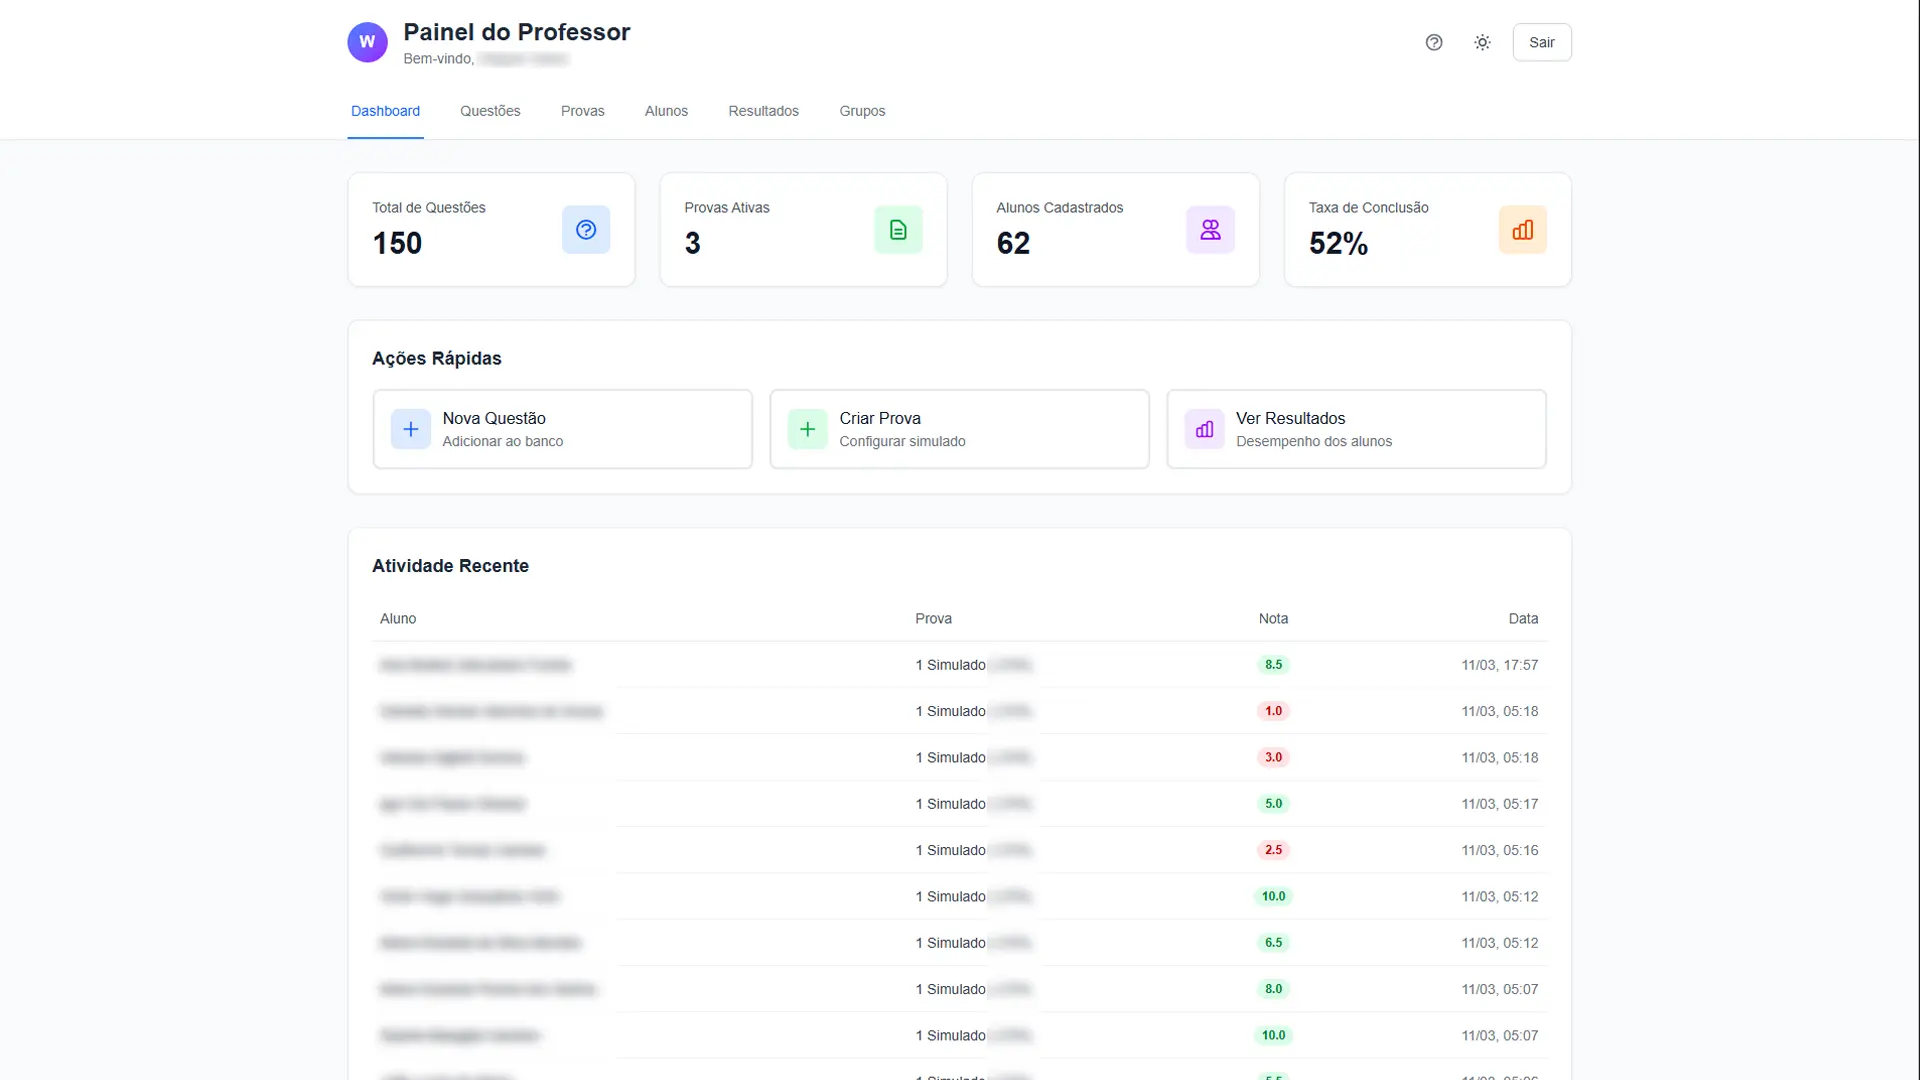
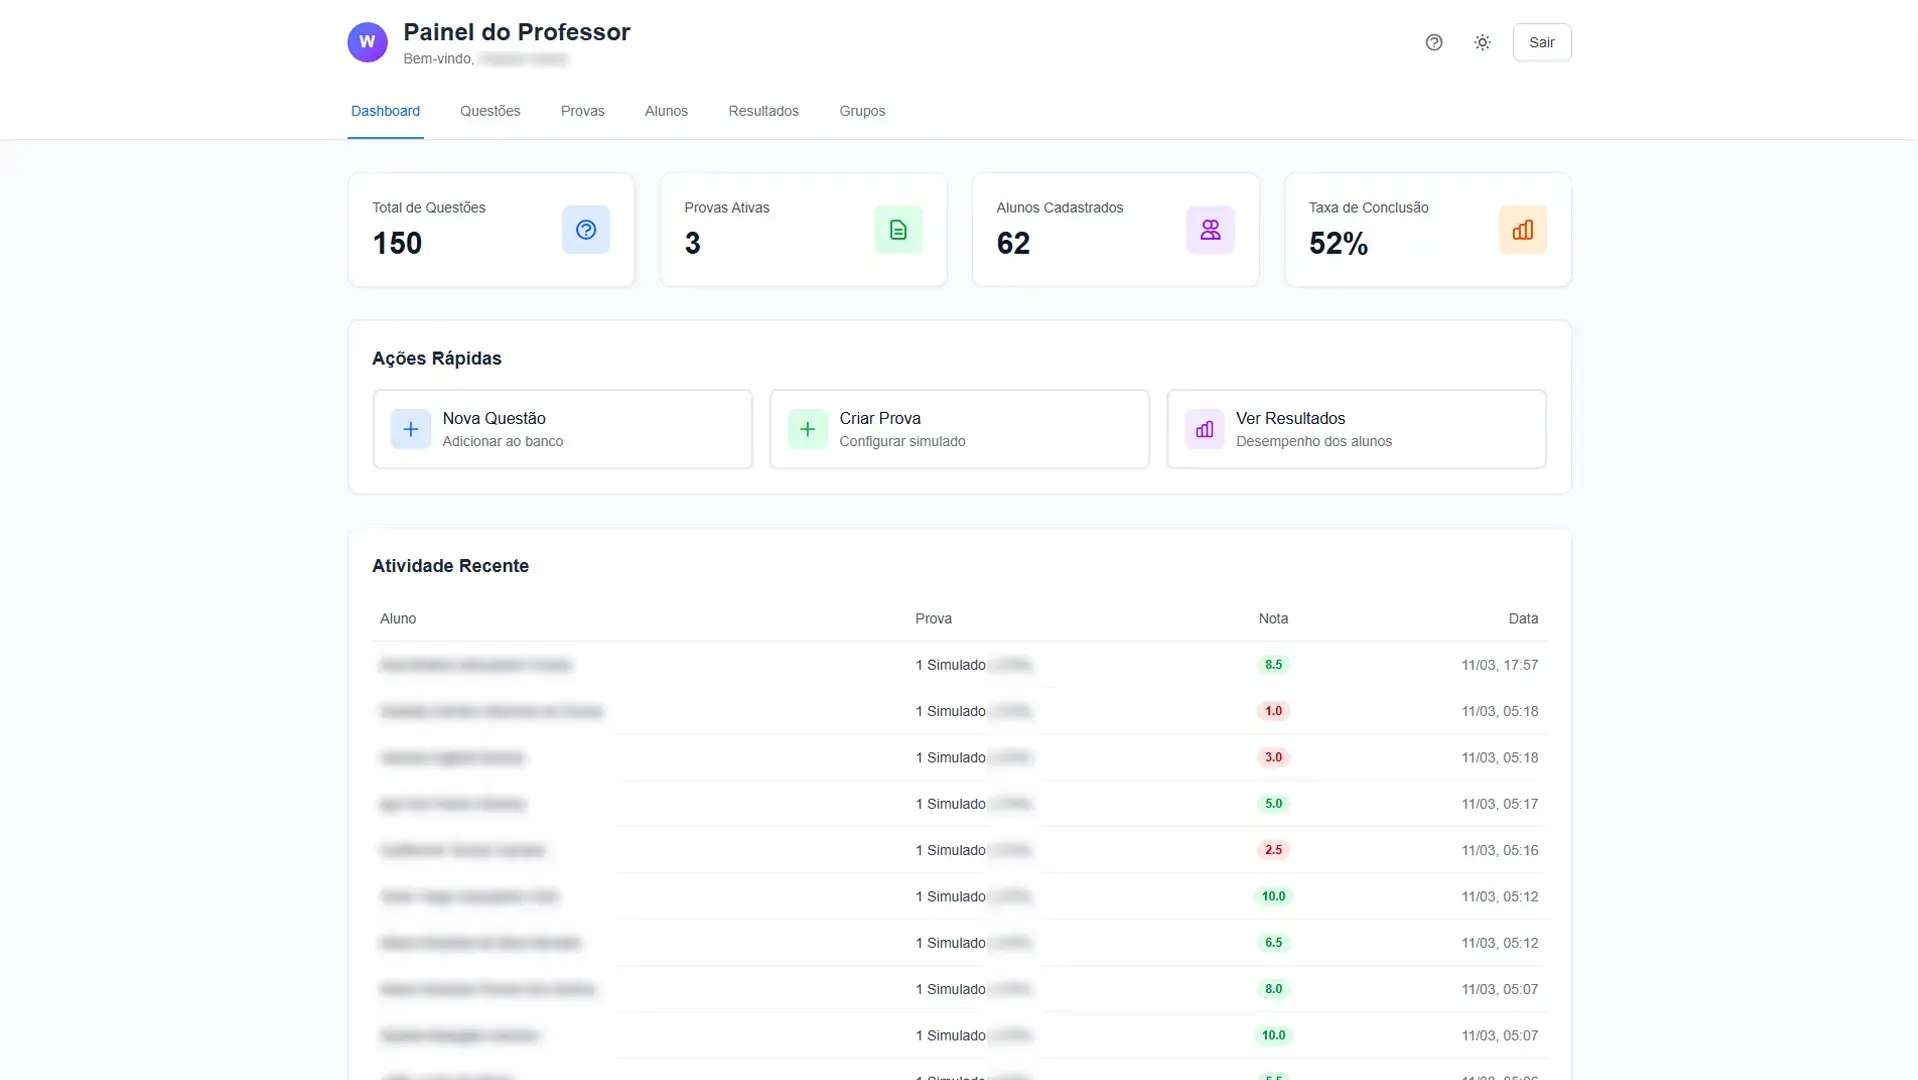
feat: add privacy policy page and project details for Sistema de Simulados

diff --git a/public/privacy_policy/index.html b/public/privacy_policy/index.html
@@ -1,0 +1,198 @@
+<!doctype html>
+<html lang="pt-BR">
+  <head>
+    <meta charset="UTF-8" />
+    <meta name="viewport" content="width=device-width, initial-scale=1.0" />
+    <title>Política de Privacidade - Zen Focus</title>
+    <link rel="preconnect" href="https://fonts.googleapis.com" />
+    <link rel="preconnect" href="https://fonts.gstatic.com" crossorigin />
+    <link
+      href="https://fonts.googleapis.com/css2?family=Inter:wght@400;500;600;700&display=swap"
+      rel="stylesheet"
+    />
+    <style>
+      :root {
+        --bg-color: #0b0f19;
+        --card-bg: #151e33;
+        --text-color: #cbd5e1;
+        --title-color: #ffffff;
+        --accent-color: #a855f7;
+        --border-color: #273556;
+      }
+
+      body {
+        font-family: "Inter", sans-serif;
+        background-color: var(--bg-color);
+        color: var(--text-color);
+        line-height: 1.6;
+        margin: 0;
+        padding: 40px 20px;
+      }
+
+      .container {
+        max-width: 800px;
+        margin: 0 auto;
+        background-color: var(--card-bg);
+        border: 1px solid var(--border-color);
+        border-radius: 16px;
+        padding: 40px;
+        box-shadow: 0 10px 30px rgba(0, 0, 0, 0.2);
+      }
+
+      h1 {
+        color: var(--title-color);
+        font-size: 28px;
+        margin-top: 0;
+        margin-bottom: 8px;
+        font-weight: 700;
+      }
+
+      .subtitle {
+        color: var(--accent-color);
+        font-size: 14px;
+        font-weight: 600;
+        text-transform: uppercase;
+        letter-spacing: 0.5px;
+        margin-bottom: 30px;
+      }
+
+      h2 {
+        color: var(--title-color);
+        font-size: 20px;
+        margin-top: 30px;
+        margin-bottom: 12px;
+        border-bottom: 1px solid var(--border-color);
+        padding-bottom: 8px;
+      }
+
+      p {
+        margin-bottom: 16px;
+        font-size: 15px;
+      }
+
+      ul {
+        margin-bottom: 20px;
+        padding-left: 20px;
+      }
+
+      li {
+        margin-bottom: 8px;
+        font-size: 15px;
+      }
+
+      .footer {
+        margin-top: 40px;
+        padding-top: 20px;
+        border-top: 1px solid var(--border-color);
+        font-size: 13px;
+        color: #64748b;
+        text-align: center;
+      }
+
+      a {
+        color: var(--accent-color);
+        text-decoration: none;
+      }
+
+      a:hover {
+        text-decoration: underline;
+      }
+    </style>
+  </head>
+  <body>
+    <div class="container">
+      <h1>Política de Privacidade</h1>
+      <div class="subtitle">Aplicativo Zen Focus</div>
+
+      <p>
+        Esta política de privacidade descreve como o aplicativo móvel
+        <strong>Zen Focus</strong> trata as informações coletadas e/ou
+        armazenadas durante a utilização do serviço.
+      </p>
+
+      <h2>1. Coleta e Uso de Informações</h2>
+      <p>
+        O <strong>Zen Focus</strong> foi desenvolvido com o compromisso de
+        respeitar a sua privacidade e segurança:
+      </p>
+      <ul>
+        <li>
+          <strong>Sem Coleta de Dados Pessoais:</strong> O aplicativo não
+          coleta, não solicita e não armazena nenhuma informação de
+          identificação pessoal, como nome, e-mail, número de telefone ou
+          localização do usuário.
+        </li>
+        <li>
+          <strong>Armazenamento Local:</strong> Todos os dados inseridos por
+          você no aplicativo (incluindo a lista de tarefas pendentes ou
+          concluídas, as anotações e sentimentos registrados no Diário, e as
+          preferências do Timer Pomodoro) são guardados de forma estritamente
+          local em seu dispositivo móvel usando o armazenamento assíncrono
+          seguro (AsyncStorage).
+        </li>
+        <li>
+          <strong>Sem Servidores Externos:</strong> Nós não possuímos servidores
+          externos para este aplicativo. Nenhum dado ou anotação é enviado,
+          transmitido ou compartilhado através da internet.
+        </li>
+      </ul>
+
+      <h2>2. Anúncios e Rastreamento</h2>
+      <p>
+        O <strong>Zen Focus</strong> é um aplicativo totalmente livre de
+        anúncios:
+      </p>
+      <ul>
+        <li>Não exibimos anúncios publicitários de terceiros.</li>
+        <li>
+          Não utilizamos SDKs de rastreamento de navegação, telemetria ou
+          ferramentas de análise de comportamento comercial (analytics
+          comercial).
+        </li>
+      </ul>
+
+      <h2>3. Segurança dos Dados</h2>
+      <p>
+        Como os dados são armazenados exclusivamente na memória local do seu
+        dispositivo móvel, a segurança dessas informações depende da segurança
+        física e digital do próprio aparelho. Recomendamos o uso de senhas ou
+        biometria para proteger o acesso geral ao seu smartphone.
+      </p>
+      <p>
+        <em
+          >Observação: Se você desinstalar o aplicativo ou limpar o cache do
+          sistema, todos os seus registros de tarefas e do diário serão apagados
+          permanentemente, pois não mantemos nenhum backup em nuvem.</em
+        >
+      </p>
+
+      <h2>4. Permissões de Dispositivo</h2>
+      <p>
+        O aplicativo requer apenas permissões básicas de sistema necessárias
+        para a execução de áudios locais (reprodução de sons de relaxamento de
+        oceano e sino de encerramento de ciclo do Pomodoro) através da API
+        nativa do sistema operacional.
+      </p>
+
+      <h2>5. Alterações nesta Política de Privacidade</h2>
+      <p>
+        Esta Política de Privacidade pode ser atualizada ocasionalmente.
+        Qualquer alteração entrará em vigor imediatamente após a publicação da
+        nova versão nesta página. É recomendável revisar esta página
+        periodicamente para se manter informado.
+      </p>
+
+      <h2>6. Contato</h2>
+      <p>
+        Se você tiver alguma dúvida ou sugestão sobre esta Política de
+        Privacidade, sinta-se à vontade para entrar em contato através do e-mail
+        do desenvolvedor fornecido na ficha da Google Play Store.
+      </p>
+
+      <div class="footer">
+        Última atualização: Maio de 2026<br />
+        Zen Focus &copy; Todos os direitos reservados.
+      </div>
+    </div>
+  </body>
+</html>

diff --git a/src/app/projects/[slug]/page.tsx b/src/app/projects/[slug]/page.tsx
@@ -55,35 +55,35 @@ export default async function ProjectPage({ params }: Props) {
         <main className="container mx-auto max-w-4xl px-4 py-16 md:py-24">
           <Link
             href="/projects"
-            className="mb-8 inline-flex items-center gap-2 text-text-muted transition-colors hover:text-primary"
+            className="text-text-muted hover:text-primary mb-8 inline-flex items-center gap-2 transition-colors"
           >
             <ArrowLeft size={16} />
             Voltar para projetos
           </Link>
 
           <header className="mb-10">
-            <h1 className="mb-3 text-4xl font-bold text-text-main md:text-5xl">
+            <h1 className="text-text-main mb-3 text-4xl font-bold md:text-5xl">
               {meta.title}
             </h1>
-            <p className="text-lg text-text-muted">{meta.summary}</p>
+            <p className="text-text-muted text-lg">{meta.summary}</p>
 
             <dl className="mt-6 grid grid-cols-2 gap-x-6 gap-y-3 text-sm md:grid-cols-4">
               {meta.client && (
                 <div>
                   <dt className="text-text-muted">Cliente</dt>
-                  <dd className="font-medium text-text-main">{meta.client}</dd>
+                  <dd className="text-text-main font-medium">{meta.client}</dd>
                 </div>
               )}
               {meta.year && (
                 <div>
                   <dt className="text-text-muted">Ano</dt>
-                  <dd className="font-medium text-text-main">{meta.year}</dd>
+                  <dd className="text-text-main font-medium">{meta.year}</dd>
                 </div>
               )}
               {meta.role && (
                 <div>
                   <dt className="text-text-muted">Função</dt>
-                  <dd className="font-medium text-text-main">{meta.role}</dd>
+                  <dd className="text-text-main font-medium">{meta.role}</dd>
                 </div>
               )}
               {meta.liveUrl && (
@@ -94,7 +94,7 @@ export default async function ProjectPage({ params }: Props) {
                       href={meta.liveUrl}
                       target="_blank"
                       rel="noopener noreferrer"
-                      className="inline-flex items-center gap-1 font-medium text-primary hover:text-primary-light"
+                      className="text-primary hover:text-primary-light inline-flex items-center gap-1 font-medium"
                     >
                       Acessar <ExternalLink size={14} />
                     </a>
@@ -108,7 +108,7 @@ export default async function ProjectPage({ params }: Props) {
                 {meta.stack.map((s) => (
                   <span
                     key={s}
-                    className="rounded-full bg-primary/10 px-3 py-1 text-xs font-medium text-primary"
+                    className="bg-primary/10 text-primary rounded-full px-3 py-1 text-xs font-medium"
                   >
                     {s}
                   </span>
@@ -118,7 +118,7 @@ export default async function ProjectPage({ params }: Props) {
           </header>
 
           {meta.coverImage && (
-            <div className="relative mb-10 aspect-video w-full overflow-hidden rounded-2xl">
+            <div className="hover:border-primary dark:hover:border-primary relative mb-10 aspect-video w-full overflow-hidden rounded-2xl border border-black/10 dark:border-white/10">
               <Image
                 src={meta.coverImage}
                 alt={`Capa do projeto ${meta.title}`}
@@ -130,7 +130,7 @@ export default async function ProjectPage({ params }: Props) {
             </div>
           )}
 
-          <article className="prose prose-lg max-w-none dark:prose-invert">
+          <article className="prose prose-lg dark:prose-invert max-w-none">
             <MDXRemote
               source={content}
               components={{
@@ -151,7 +151,7 @@ export default async function ProjectPage({ params }: Props) {
                 href={meta.liveUrl}
                 target="_blank"
                 rel="noopener noreferrer"
-                className="inline-flex items-center gap-2 rounded-lg bg-primary px-6 py-3 font-bold text-white transition-colors hover:bg-primary-light"
+                className="bg-primary hover:bg-primary-light inline-flex items-center gap-2 rounded-lg px-6 py-3 font-bold text-white transition-colors"
               >
                 Ver projeto ao vivo
                 <ExternalLink size={18} />

diff --git a/src/data/projects.ts b/src/data/projects.ts
@@ -31,12 +31,13 @@ export const allProjects: Project[] = [
   {
     id: 2,
     title: "Sistema de Simulados e Provas",
+    slug: "sistema-simulados",
     image: "simulado.webp",
     basePath: "/img/projects/",
     link: "https://simulado.wsabor.dev",
     description:
       "Sistema de simulados e provas para aplicação em sala de aula desenvolvido utilizando Next.js e Tailwind CSS",
-    tags: ["Next.js", "Tailwind CSS", "Educacional", "UX/UI"],
+    tags: ["Next.js", "Tailwind CSS", "Engenharia de Software"],
   },
   {
     id: 3,
